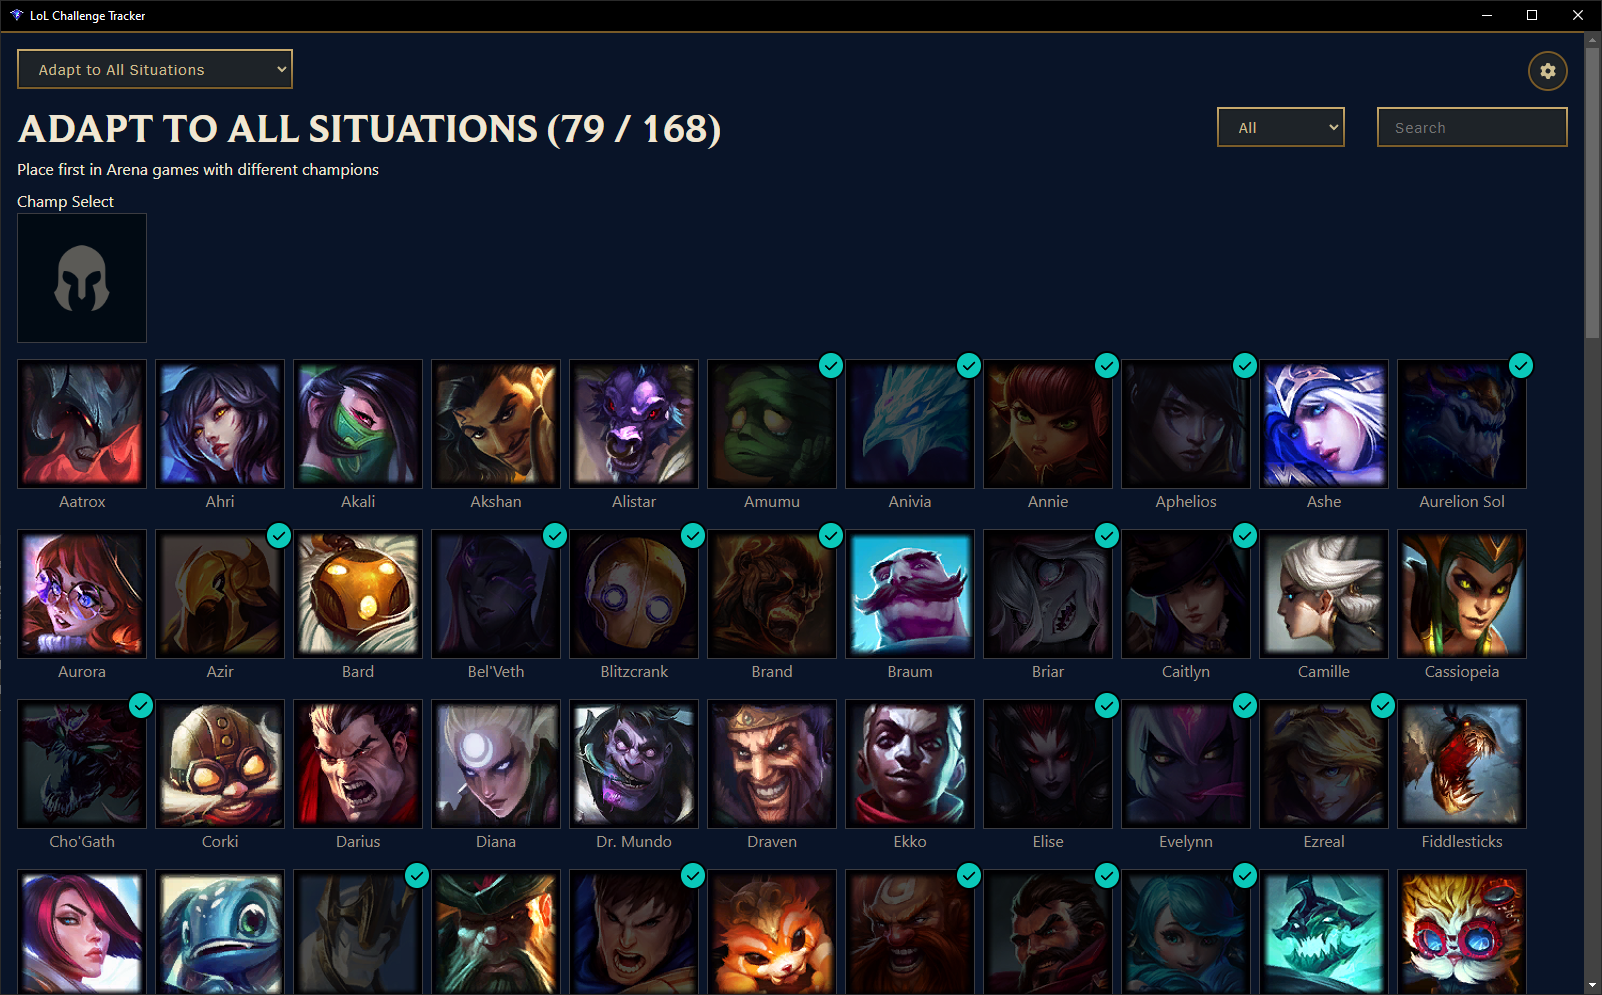
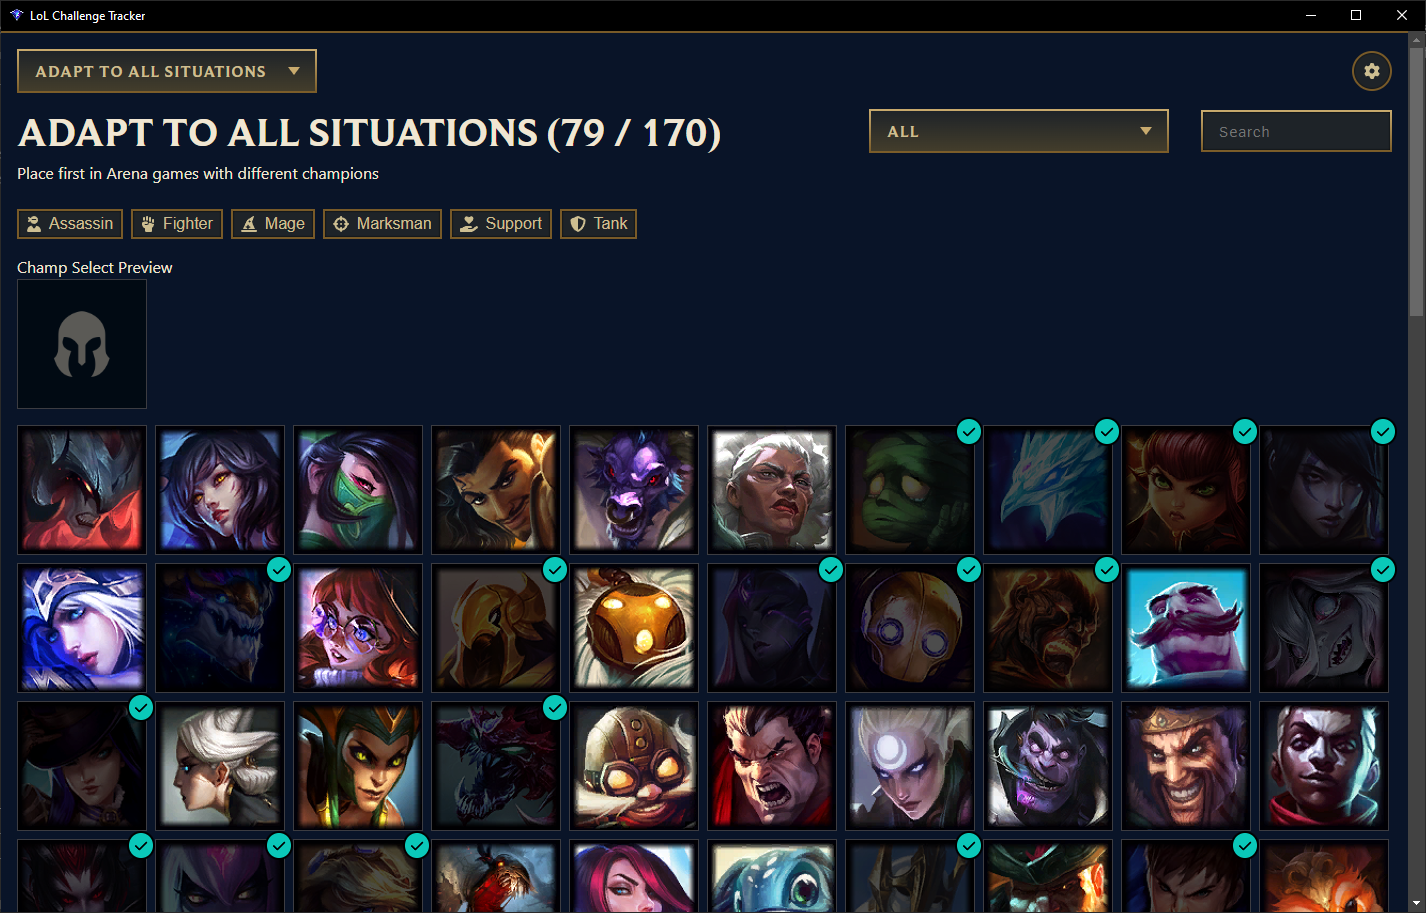
v1.1.0

diff --git a/src/App.vue b/src/App.vue
@@ -5,7 +5,7 @@ import { FontAwesomeIcon } from "@fortawesome/vue-fontawesome"
 import { faGear } from "@fortawesome/free-solid-svg-icons"
 
 import { LCUCredentials, RawChallenge } from "./types/lcu"
-import { AramStats, Challenge, Champion } from "./types/lol"
+import { AramStats, Challenge, Champion, Summoner } from "./types/lol"
 import { StoredSettings } from "./types/app"
 import {
   challengeFromCompletedIds as challengeFromRaw,
@@ -18,12 +18,11 @@ import Settings from "./components/Settings.vue"
 import LeagueDropdown from "./components/LeagueDropdown.vue"
 
 const credentials = ref<LCUCredentials | null>(null)
+
 const allChampions = ref<Champion[] | null>(null)
-
+const summoner = ref<Summoner | null>(null)
 const challenges = ref<Challenge[]>([])
-
 const stats = ref<AramStats | null>(null)
-
 const selectedChamp = ref<Challenge["champions"][number] | null>(null)
 
 onMounted(async () => {
@@ -52,6 +51,13 @@ const fetchAramStats = async () => {
 const fetchLCU = async () => {
   if (credentials.value === null) return
   try {
+    const summonerRes = await makeLCURequest<Summoner>(
+      credentials.value,
+      "/lol-summoner/v1/current-summoner"
+    )
+
+    summoner.value = summonerRes
+
     const champsRes = await makeLCURequest<Champion[]>(
       credentials.value,
       "/lol-champions/v1/owned-champions-minimal"
@@ -81,12 +87,7 @@ const updateSettings = (settings: StoredSettings) => {
   window.ipcRenderer.send("store-set", "settings", JSON.stringify(settings))
 }
 
-window.ipcRenderer.on("end-of-game", () => {
-  selectedChamp.value = null
-  fetchLCU()
-})
-
-window.ipcRenderer.on("pick", async (_event, champId: string | null) => {
+const handlePickEvent = (champId: number | null) => {
   if (champId === null) {
     selectedChamp.value = null
   }
@@ -96,6 +97,15 @@ window.ipcRenderer.on("pick", async (_event, champId: string | null) => {
   if (champ) {
     selectedChamp.value = champ
   }
+}
+
+window.ipcRenderer.on("end-of-game", () => {
+  selectedChamp.value = null
+  fetchLCU()
+})
+
+window.ipcRenderer.on("pick", async (_event, champId: number | null) => {
+  handlePickEvent(champId)
 })
 
 window.ipcRenderer.on(
@@ -121,6 +131,18 @@ window.ipcRenderer.on(
 
     if (storedSelectedChallengeIdx) {
       selectedChallengeIndex.value = Number(storedSelectedChallengeIdx)
+    }
+  }
+)
+
+window.ipcRenderer.on(
+  "game-start",
+  async (_event, champSelect: { championId: number; puuid: string }[]) => {
+    const localPickedChamp = champSelect.find(
+      (c) => c.puuid === summoner.value?.puuid
+    )
+    if (localPickedChamp) {
+      handlePickEvent(localPickedChamp.championId)
     }
   }
 )

diff --git a/src/components/ChallengeSection.vue b/src/components/ChallengeSection.vue
@@ -150,7 +150,11 @@ const filterOptions = computed(() => {
 
     <div class="selected-champ-container">
       <div>
-        <div class="selected-champ-text">Champ Select</div>
+        <div class="selected-champ-text">Champ Select Preview</div>
+        <div v-if="selectedChamp" class="selected-champ-done-label">
+          <span class="selected-champion-name">{{ selectedChamp.name }}</span> :
+          {{ selectedChamp.done ? "Done" : "Not Done" }}
+        </div>
         <div class="champion">
           <a
             :href="selectedChamp ? championBuildLink(selectedChamp) : ''"
@@ -164,7 +168,7 @@ const filterOptions = computed(() => {
                   : !selectedChamp.done,
               }"
               :src="`https://raw.communitydragon.org/latest/plugins/rcp-be-lol-game-data/global/default/v1/champion-icons/${selectedChamp.id}.png`"
-              :alt="selectedChamp.id"
+              :alt="selectedChamp.id.toString()"
             />
             <img
               v-else
@@ -195,7 +199,7 @@ const filterOptions = computed(() => {
           <img
             :class="{ greyed: isColoredWhenDone ? champ.done : !champ.done }"
             :src="`https://raw.communitydragon.org/latest/plugins/rcp-be-lol-game-data/global/default/v1/champion-icons/${champ.id}.png`"
-            :alt="champ.id"
+            :alt="champ.id.toString()"
           />
         </a>
         <div v-if="champ.done" class="check-mark">
@@ -210,7 +214,7 @@ const filterOptions = computed(() => {
           "
           :stats="stats[champ.alias]"
         />
-        <p class="name" v-if="showChampionNames">{{ champ.name }}</p>
+        <p class="champion-name" v-if="showChampionNames">{{ champ.name }}</p>
       </div>
     </div>
   </div>
@@ -256,7 +260,22 @@ input.search {
 
 .selected-champ-container {
   display: flex;
-  margin-bottom: 16px;
+  margin-bottom: 32px;
+}
+
+.selected-champ-text {
+  margin-bottom: 4px;
+}
+
+.selected-champ-done-label {
+  text-wrap: nowrap;
+  z-index: 2;
+  padding: 4px;
+}
+
+.selected-champion-name {
+  color: #c8aa6e;
+  white-space: nowrap;
 }
 
 .champions-container {
@@ -290,6 +309,7 @@ p {
 }
 
 .champion a {
+  position: relative;
   display: block;
   width: 128px;
   height: 128px;
@@ -297,7 +317,7 @@ p {
   text-decoration: none;
 }
 
-.name {
+.champion-name {
   text-align: center;
   line-height: 1;
   padding: 4px;

diff --git a/electron/main/index.ts b/electron/main/index.ts
@@ -53,7 +53,7 @@ async function createWindow() {
     icon: path.join(process.env.VITE_PUBLIC, "favicon.ico"),
     autoHideMenuBar: true,
     height: 920,
-    width: 1340,
+    width: VITE_DEV_SERVER_URL ? 1440 + 760 : 1440,
     webPreferences: {
       preload,
       nodeIntegration: true,
@@ -138,6 +138,15 @@ async function connectWebsocket(
           win.webContents.send("pick", champId)
         }
         break
+      case LCUEvents.GameSession:
+        if (event.data.phase === "InProgress") {
+          console.log(JSON.stringify(event, null, 4))
+          win.webContents.send(
+            "game-start",
+            event.data.gameData.playerChampionSelections
+          )
+        }
+        break
     }
   })
 
@@ -146,6 +155,7 @@ async function connectWebsocket(
     // 5 Means Subscribe
     ws.send(`[5, "${LCUEvents.EndOfGameStats}"]`)
     ws.send(`[5, "${LCUEvents.ChampSelectSession}"]`)
+    ws.send(`[5, "${LCUEvents.GameSession}"]`)
   })
 }
 

diff --git a/electron/main/interface.ts b/electron/main/interface.ts
@@ -1,12 +1,17 @@
 export enum LCUEvents {
   EndOfGameStats = "OnJsonApiEvent_lol-end-of-game_v1_eog-stats-block",
   ChampSelectSession = "OnJsonApiEvent_lol-champ-select_v1_session",
+  GameSession = "OnJsonApiEvent_lol-gameflow_v1_session",
 }
 
 export type LCUEventMessage =
   | {
       type: LCUEvents.ChampSelectSession
       data: ChampSelectSessionEvent
+    }
+  | {
+      type: LCUEvents.GameSession
+      data: GameSessionEvent
     }
   | {
       type: LCUEvents.EndOfGameStats
@@ -21,4 +26,17 @@ export interface ChampSelectSessionEvent {
     isAllyAction: boolean
   }[][]
   localPlayerCellId: number
+}
+
+export interface PlayerChampionSelection {
+  championId: number
+  puuid: string
+}
+
+export interface GameSessionEvent {
+  gameData: {
+    gameId: number
+    playerChampionSelections: PlayerChampionSelection[]
+  }
+  phase: string
 }

diff --git a/src/components/Settings.vue b/src/components/Settings.vue
@@ -63,13 +63,12 @@ const showChampionNames = defineModel<boolean>("showChampionNames", {
 <style scoped>
 .settings {
   position: absolute;
-  top: 260px;
   right: 16px;
-  top: 74px;
+  top: 68px;
   background-color: grey;
   z-index: 10;
   font-size: 16px;
-  background: var(--main-bg-gradient);
+  background-color: #161616;
   color: #cdbe91;
   box-shadow: inset 0 0 2px #000000, 4px 4px 8px #000;
   border: solid 2px #785a28;

diff --git a/src/types/lol.ts b/src/types/lol.ts
@@ -1,5 +1,15 @@
+export interface Summoner {
+  accountId: string
+  gameName: string
+  profileIconId: number
+  puuid: string
+  summonerId: number
+  summonerLevel: number
+  tagLine: string
+}
+
 export interface Champion {
-  id: string
+  id: number
   alias: string
   name: string
   roles: ChampionRole[]

diff --git a/src/style.css b/src/style.css
@@ -14,7 +14,7 @@
   -webkit-text-size-adjust: 100%;
 
   --main-text-color: #f0e6d2;
-  --main-bg-gradient: linear-gradient(#091428, #0a1428);
+  --main-bg-gradient: linear-gradient(to left, #091428, #0a1428);
 }
 
 body {

diff --git a/src/types/lcu.ts b/src/types/lcu.ts
@@ -7,7 +7,7 @@ export interface LCUCredentials {
 }
 
 export interface RawChallenge {
-  completedIds: string[]
+  completedIds: number[]
   name: string
   description: string
   // Lot more but not used
